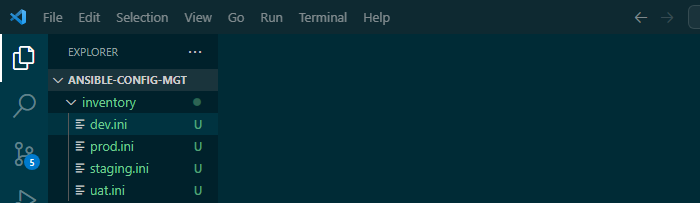
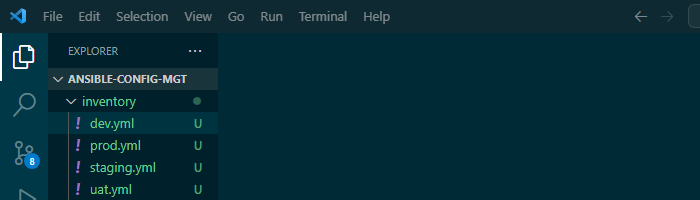
Updated project documentation and images

diff --git a/PROJECT 11/Project11.md b/PROJECT 11/Project11.md
@@ -277,7 +277,7 @@ To begin Ansible development, go through the following steps:
 
 ![Alt text](Images/jen-server53.png)
 
-- Create an inventory file for each environment (Development, Staging, Testing, and Production) named `dev`, `staging`, `uat`, and `prod` using the .ini extension.
+- Create an inventory file for each environment (Development, Staging, Testing, and Production) named `dev`, `staging`, `uat`, and `prod`
 
 ![Alt text](Images/jen-server54.png)
 
